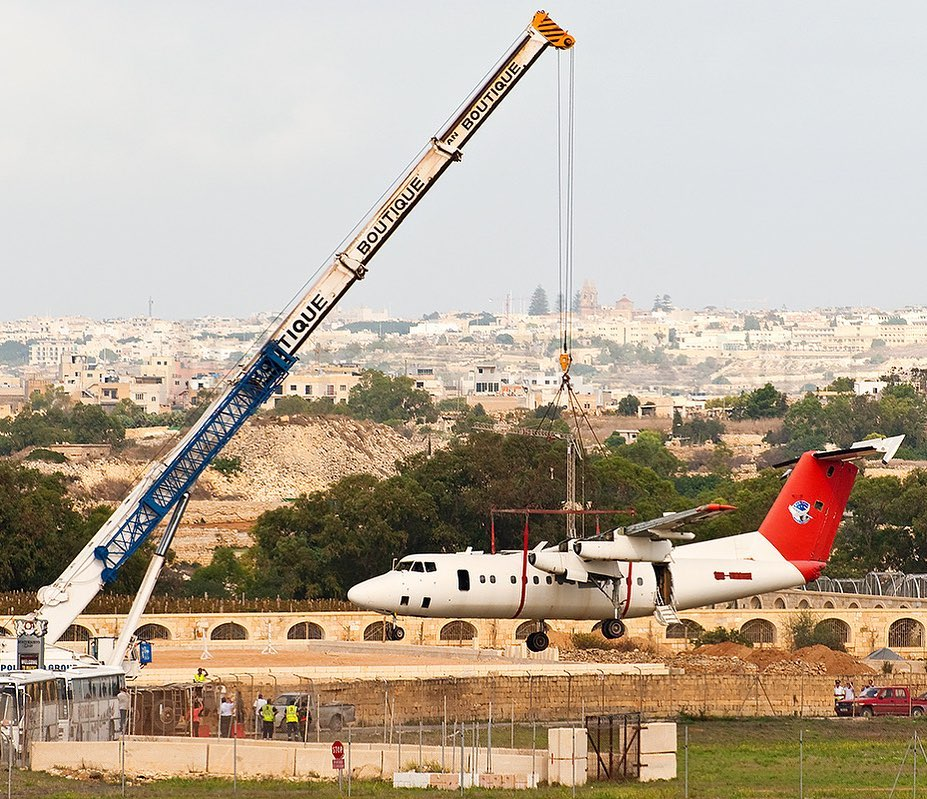
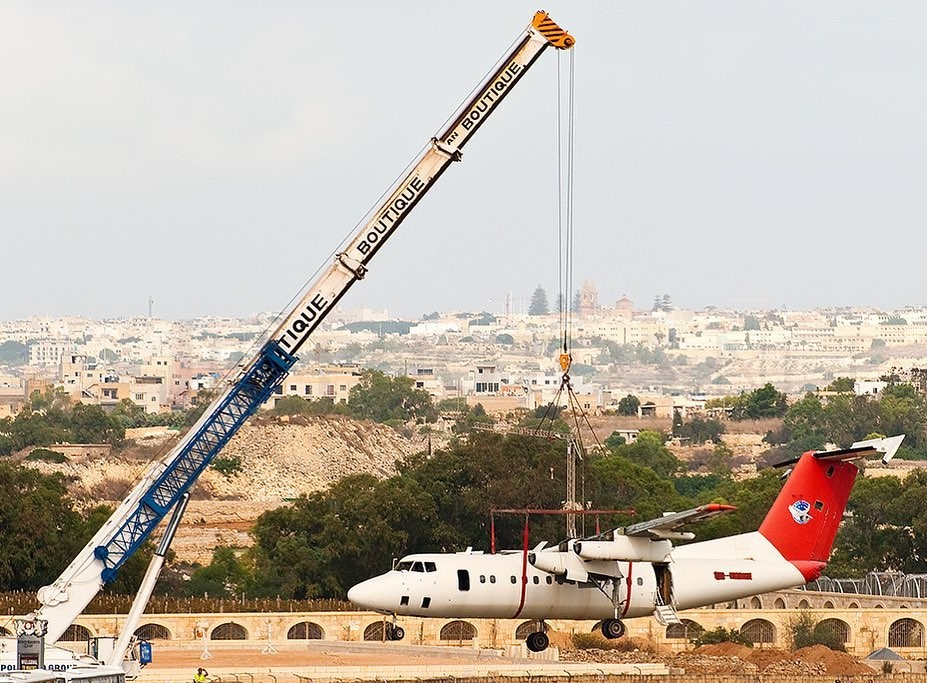
fixed assets
made images look better. polished some areas that needed a better look

diff --git a/abandoned.html b/abandoned.html
@@ -78,7 +78,7 @@
                             <a href="stphilips.html">
                                 <img src="assets/images/st.philips1.jpg" alt="Article 4">
                                 <div class="text-container">
-                                    <p>St.Philips's Hospital (St. Venera)</p>
+                                    <p>St.Philips's Hospital</p>
                                 </div>
                             </a>
                         </div>

diff --git a/ulysses.html b/ulysses.html
@@ -34,7 +34,7 @@
             </div>
             <div class="col-7">
                 <div class="text">
-                    <h3>Ulysses Lodge, Xagħjra (Gozo)
+                    <h3>Ulysses Lodge, Xagħra (Gozo)
                     <br>
                     750m away from Ramla l-Ħamra
                     </h3>
